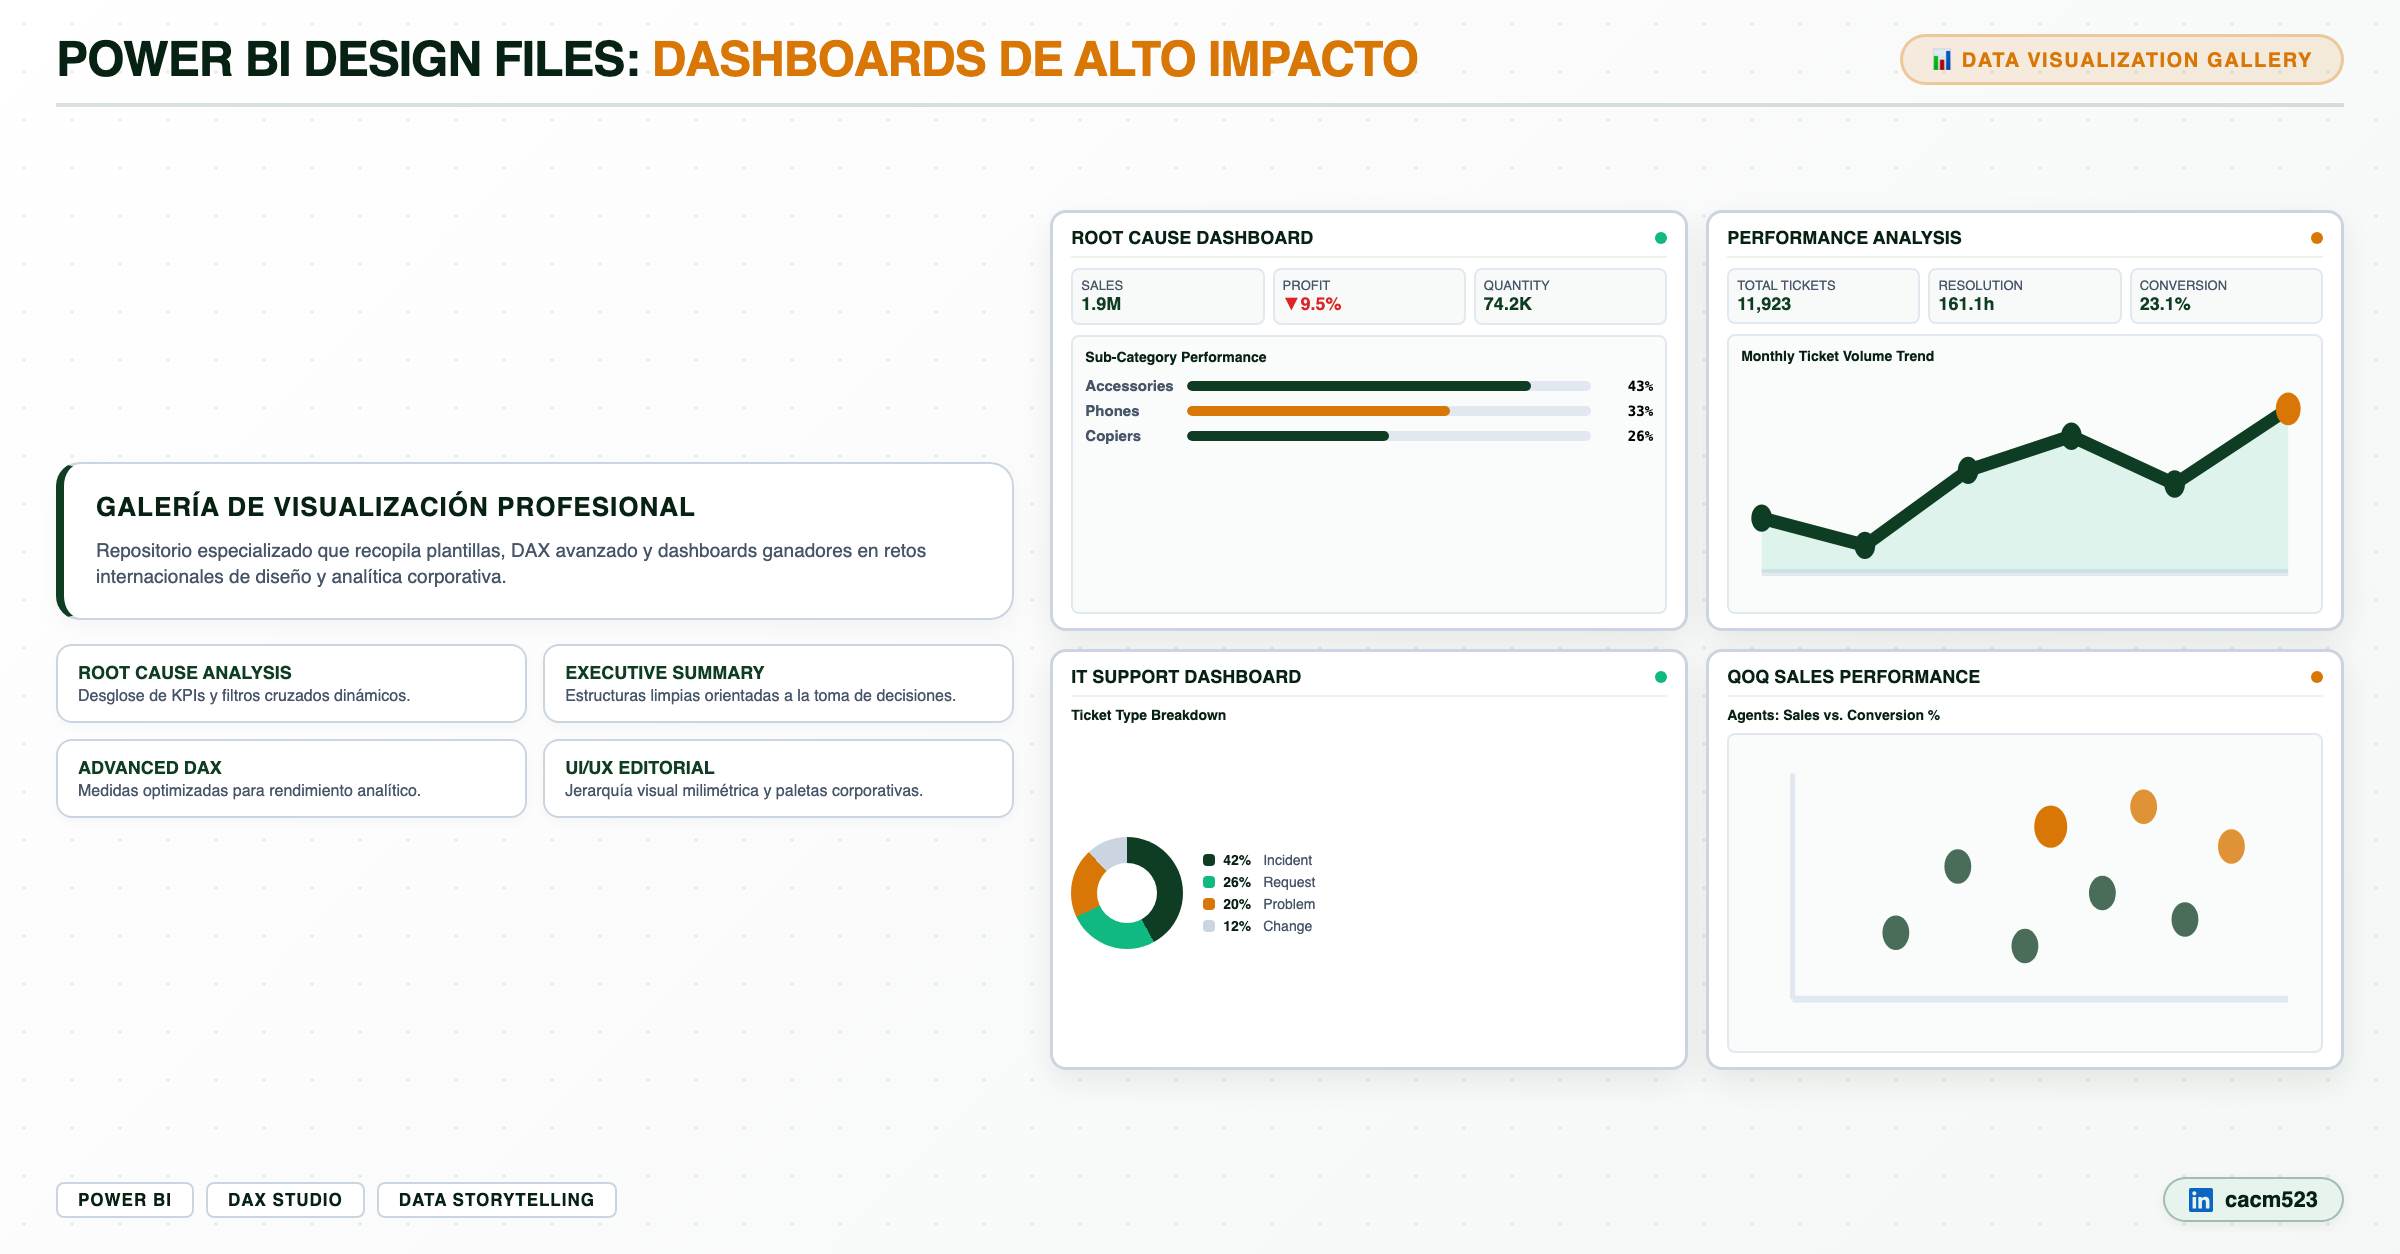
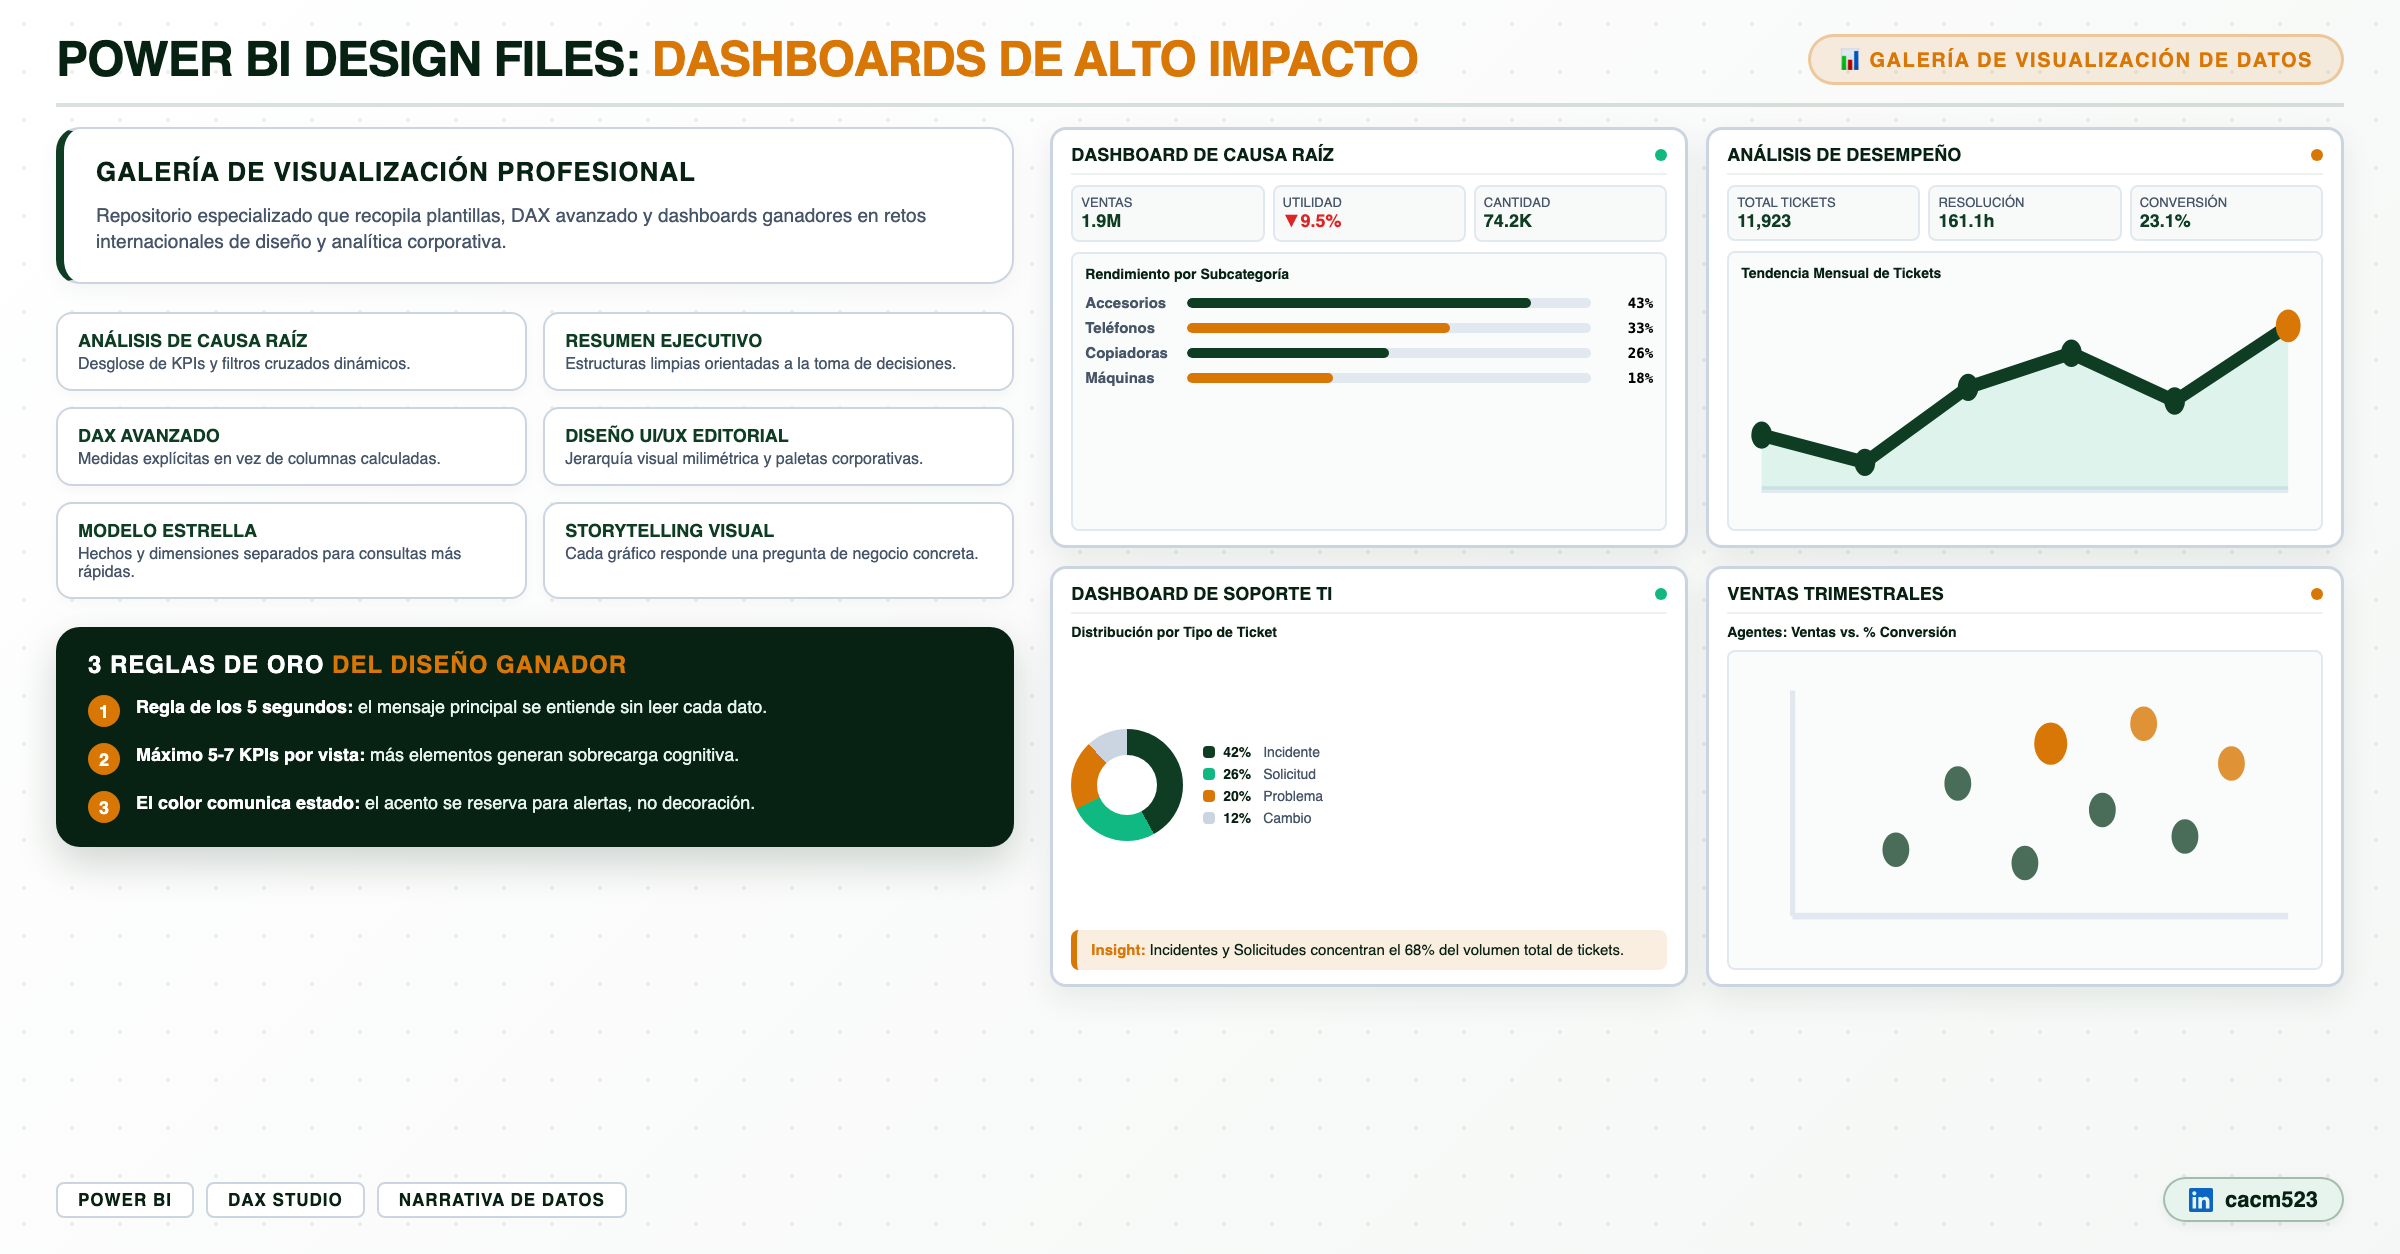
Mejora infografía Power BI Design Files: español completo y más contenido
Traduce al español todas las etiquetas de los mockups de dashboard que
quedaron en inglés (KPIs, títulos, leyendas de la dona, ejes). Rellena
el espacio vacío señalado en la columna izquierda con dos secciones
nuevas de valor real: 2 prácticas adicionales de diseño/DAX (modelo
estrella, storytelling visual) y un panel de "3 Reglas de Oro" del
diseño de dashboards ganadores. Añade una cuarta subcategoría al gráfico
de barras y un insight calculado (68%) a partir de la propia dona en el
dashboard de soporte TI, para eliminar el espacio en blanco de esas
tarjetas sin inventar cifras nuevas.

diff --git a/Construidos/PowerBI/power-bi-design-files-dashboards.html b/Construidos/PowerBI/power-bi-design-files-dashboards.html
@@ -105,14 +105,14 @@
             gap: 18px;
             flex-grow: 1;
             min-height: 0;
-            align-items: center;
+            align-items: stretch;
         }
 
         /* Columna Izquierda: Mensaje y Callouts */
         .left-column {
             display: flex;
             flex-direction: column;
-            gap: 12px;
+            gap: 14px;
         }
 
         .intro-card {
@@ -168,6 +168,59 @@
         .feature-box .f-desc {
             font-size: 8px;
             color: var(--gray-text);
+        }
+
+        /* Panel de reglas de diseño (rellena el espacio inferior de la columna izquierda) */
+        .rules-panel {
+            background: var(--green-dark);
+            border-radius: var(--radius-lg);
+            padding: 12px 16px;
+            display: flex;
+            flex-direction: column;
+            gap: 8px;
+            box-shadow: 0 8px 20px rgba(7, 33, 19, 0.18);
+        }
+
+        .rules-panel h2 {
+            font-size: 12px;
+            font-weight: 800;
+            color: var(--white);
+            text-transform: uppercase;
+            letter-spacing: 0.5px;
+        }
+
+        .rules-panel h2 span {
+            color: var(--earth-accent);
+        }
+
+        .rule-row {
+            display: flex;
+            align-items: flex-start;
+            gap: 8px;
+        }
+
+        .rule-num {
+            flex-shrink: 0;
+            width: 16px;
+            height: 16px;
+            border-radius: 50%;
+            background: var(--earth-accent);
+            color: var(--white);
+            font-size: 9px;
+            font-weight: 800;
+            display: flex;
+            align-items: center;
+            justify-content: center;
+        }
+
+        .rule-text {
+            font-size: 9px;
+            line-height: 1.35;
+            color: var(--green-light);
+        }
+
+        .rule-text b {
+            color: var(--white);
         }
 
         /* Columna Derecha: Mockups UI de Dashboards Power BI (Estilo Referencia) */
@@ -345,6 +398,20 @@
         .donut-legend .leg-dot { width: 6px; height: 6px; border-radius: 2px; flex-shrink: 0; }
         .donut-legend b { color: var(--green-dark); }
 
+        /* Insight derivado (dato calculado a partir de la propia dona, no inventado) */
+        .insight-box {
+            margin-top: auto;
+            background: var(--earth-bg);
+            border-left: 3px solid var(--earth-accent);
+            border-radius: 4px;
+            padding: 5px 7px;
+            font-size: 7.5px;
+            line-height: 1.35;
+            color: var(--green-dark);
+        }
+
+        .insight-box b { color: var(--earth-accent); }
+
         /* Sparkline / trend line (tipo Performance Analysis) */
         .spark-box { flex-grow: 1; display: flex; flex-direction: column; gap: 2px; }
         .spark-box svg { width: 100%; height: 100%; }
@@ -418,7 +485,7 @@
                 <h1>Power BI Design Files: <span>Dashboards de Alto Impacto</span></h1>
             </div>
             <div class="header-badge">
-                📊 Data Visualization Gallery
+                📊 Galería de Visualización de Datos
             </div>
         </header>
 
@@ -434,20 +501,44 @@
 
                 <div class="features-grid">
                     <div class="feature-box">
-                        <span class="f-title">Root Cause Analysis</span>
+                        <span class="f-title">Análisis de Causa Raíz</span>
                         <span class="f-desc">Desglose de KPIs y filtros cruzados dinámicos.</span>
                     </div>
                     <div class="feature-box">
-                        <span class="f-title">Executive Summary</span>
+                        <span class="f-title">Resumen Ejecutivo</span>
                         <span class="f-desc">Estructuras limpias orientadas a la toma de decisiones.</span>
                     </div>
                     <div class="feature-box">
-                        <span class="f-title">Advanced DAX</span>
-                        <span class="f-desc">Medidas optimizadas para rendimiento analítico.</span>
+                        <span class="f-title">DAX Avanzado</span>
+                        <span class="f-desc">Medidas explícitas en vez de columnas calculadas.</span>
                     </div>
                     <div class="feature-box">
-                        <span class="f-title">UI/UX Editorial</span>
+                        <span class="f-title">Diseño UI/UX Editorial</span>
                         <span class="f-desc">Jerarquía visual milimétrica y paletas corporativas.</span>
+                    </div>
+                    <div class="feature-box">
+                        <span class="f-title">Modelo Estrella</span>
+                        <span class="f-desc">Hechos y dimensiones separados para consultas más rápidas.</span>
+                    </div>
+                    <div class="feature-box">
+                        <span class="f-title">Storytelling Visual</span>
+                        <span class="f-desc">Cada gráfico responde una pregunta de negocio concreta.</span>
+                    </div>
+                </div>
+
+                <div class="rules-panel">
+                    <h2>3 Reglas de Oro <span>del Diseño Ganador</span></h2>
+                    <div class="rule-row">
+                        <span class="rule-num">1</span>
+                        <span class="rule-text"><b>Regla de los 5 segundos:</b> el mensaje principal se entiende sin leer cada dato.</span>
+                    </div>
+                    <div class="rule-row">
+                        <span class="rule-num">2</span>
+                        <span class="rule-text"><b>Máximo 5-7 KPIs por vista:</b> más elementos generan sobrecarga cognitiva.</span>
+                    </div>
+                    <div class="rule-row">
+                        <span class="rule-num">3</span>
+                        <span class="rule-text"><b>El color comunica estado:</b> el acento se reserva para alertas, no decoración.</span>
                     </div>
                 </div>
             </div>
@@ -455,50 +546,55 @@
             <!-- DERECHA: MOCKUPS UI DE POWER BI SIMULADOS EXACTOS -->
             <div class="right-column">
                 
-                <!-- Mockup 1: Root Cause Dashboard (barras) -->
+                <!-- Mockup 1: Dashboard de Causa Raíz (barras) -->
                 <div class="dashboard-mockup">
                     <div class="mockup-header">
-                        <span class="mockup-title">Root Cause Dashboard</span>
+                        <span class="mockup-title">Dashboard de Causa Raíz</span>
                         <div class="mockup-dot"></div>
                     </div>
                     <div class="kpi-row">
                         <div class="kpi-card">
-                            <span class="kpi-label">Sales</span>
+                            <span class="kpi-label">Ventas</span>
                             <span class="kpi-val">1.9M</span>
                         </div>
                         <div class="kpi-card">
-                            <span class="kpi-label">Profit</span>
+                            <span class="kpi-label">Utilidad</span>
                             <span class="kpi-val negative">▼9.5%</span>
                         </div>
                         <div class="kpi-card">
-                            <span class="kpi-label">Quantity</span>
+                            <span class="kpi-label">Cantidad</span>
                             <span class="kpi-val">74.2K</span>
                         </div>
                     </div>
                     <div class="chart-sim">
-                        <div style="font-size: 7px; font-weight: 700; color: var(--green-dark); margin-bottom: 2px;">Sub-Category Performance</div>
+                        <div style="font-size: 7px; font-weight: 700; color: var(--green-dark); margin-bottom: 2px;">Rendimiento por Subcategoría</div>
                         <div class="bar-chart-row">
-                            <span class="bar-label">Accessories</span>
+                            <span class="bar-label">Accesorios</span>
                             <div class="bar-track"><div class="bar-fill" style="width: 85%;"></div></div>
                             <span class="bar-val">43%</span>
                         </div>
                         <div class="bar-chart-row">
-                            <span class="bar-label">Phones</span>
+                            <span class="bar-label">Teléfonos</span>
                             <div class="bar-track"><div class="bar-fill earth" style="width: 65%;"></div></div>
                             <span class="bar-val">33%</span>
                         </div>
                         <div class="bar-chart-row">
-                            <span class="bar-label">Copiers</span>
+                            <span class="bar-label">Copiadoras</span>
                             <div class="bar-track"><div class="bar-fill" style="width: 50%;"></div></div>
                             <span class="bar-val">26%</span>
+                        </div>
+                        <div class="bar-chart-row">
+                            <span class="bar-label">Máquinas</span>
+                            <div class="bar-track"><div class="bar-fill earth" style="width: 36%;"></div></div>
+                            <span class="bar-val">18%</span>
                         </div>
                     </div>
                 </div>
 
-                <!-- Mockup 2: Performance Analysis (línea de tendencia) -->
+                <!-- Mockup 2: Análisis de Desempeño (línea de tendencia) -->
                 <div class="dashboard-mockup">
                     <div class="mockup-header">
-                        <span class="mockup-title">Performance Analysis</span>
+                        <span class="mockup-title">Análisis de Desempeño</span>
                         <div class="mockup-dot" style="background: var(--earth-accent);"></div>
                     </div>
                     <div class="kpi-row">
@@ -507,16 +603,16 @@
                             <span class="kpi-val">11,923</span>
                         </div>
                         <div class="kpi-card">
-                            <span class="kpi-label">Resolution</span>
+                            <span class="kpi-label">Resolución</span>
                             <span class="kpi-val">161.1h</span>
                         </div>
                         <div class="kpi-card">
-                            <span class="kpi-label">Conversion</span>
+                            <span class="kpi-label">Conversión</span>
                             <span class="kpi-val">23.1%</span>
                         </div>
                     </div>
                     <div class="chart-sim spark-box">
-                        <div style="font-size: 7px; font-weight: 700; color: var(--green-dark);">Monthly Ticket Volume Trend</div>
+                        <div style="font-size: 7px; font-weight: 700; color: var(--green-dark);">Tendencia Mensual de Tickets</div>
                         <svg viewBox="0 0 110 34" preserveAspectRatio="none">
                             <polyline points="4,26 4,30 106,30 106,26" fill="none" stroke="none"/>
                             <line x1="4" y1="30" x2="106" y2="30" stroke="#e2e8f0" stroke-width="1"/>
@@ -532,31 +628,32 @@
                     </div>
                 </div>
 
-                <!-- Mockup 3: IT Support Ticket Breakdown (dona) -->
+                <!-- Mockup 3: Distribución de Tickets de Soporte TI (dona) -->
                 <div class="dashboard-mockup">
                     <div class="mockup-header">
-                        <span class="mockup-title">IT Support Dashboard</span>
+                        <span class="mockup-title">Dashboard de Soporte TI</span>
                         <div class="mockup-dot"></div>
                     </div>
-                    <div style="font-size: 7px; font-weight: 700; color: var(--green-dark);">Ticket Type Breakdown</div>
+                    <div style="font-size: 7px; font-weight: 700; color: var(--green-dark);">Distribución por Tipo de Ticket</div>
                     <div class="donut-row">
                         <div class="donut-shape"></div>
                         <div class="donut-legend">
-                            <div class="leg-row"><span class="leg-dot" style="background:var(--green-primary);"></span><b>42%</b>&nbsp;Incident</div>
-                            <div class="leg-row"><span class="leg-dot" style="background:var(--green-glow);"></span><b>26%</b>&nbsp;Request</div>
-                            <div class="leg-row"><span class="leg-dot" style="background:var(--earth-accent);"></span><b>20%</b>&nbsp;Problem</div>
-                            <div class="leg-row"><span class="leg-dot" style="background:#cbd5e1;"></span><b>12%</b>&nbsp;Change</div>
+                            <div class="leg-row"><span class="leg-dot" style="background:var(--green-primary);"></span><b>42%</b>&nbsp;Incidente</div>
+                            <div class="leg-row"><span class="leg-dot" style="background:var(--green-glow);"></span><b>26%</b>&nbsp;Solicitud</div>
+                            <div class="leg-row"><span class="leg-dot" style="background:var(--earth-accent);"></span><b>20%</b>&nbsp;Problema</div>
+                            <div class="leg-row"><span class="leg-dot" style="background:#cbd5e1;"></span><b>12%</b>&nbsp;Cambio</div>
                         </div>
                     </div>
+                    <div class="insight-box"><b>Insight:</b> Incidentes y Solicitudes concentran el 68% del volumen total de tickets.</div>
                 </div>
 
-                <!-- Mockup 4: QoQ Sales & Conversion (dispersión) -->
+                <!-- Mockup 4: Ventas Trimestrales y Conversión (dispersión) -->
                 <div class="dashboard-mockup">
                     <div class="mockup-header">
-                        <span class="mockup-title">QoQ Sales Performance</span>
+                        <span class="mockup-title">Ventas Trimestrales</span>
                         <div class="mockup-dot" style="background: var(--earth-accent);"></div>
                     </div>
-                    <div style="font-size: 7px; font-weight: 700; color: var(--green-dark);">Agents: Sales vs. Conversion %</div>
+                    <div style="font-size: 7px; font-weight: 700; color: var(--green-dark);">Agentes: Ventas vs. % Conversión</div>
                     <div class="chart-sim scatter-box">
                         <svg viewBox="0 0 110 44" preserveAspectRatio="none">
                             <line x1="10" y1="4" x2="10" y2="38" stroke="#e2e8f0" stroke-width="1"/>
@@ -582,7 +679,7 @@
             <div class="tech-tags">
                 <span class="tech-pill">Power BI</span>
                 <span class="tech-pill">DAX Studio</span>
-                <span class="tech-pill">Data Storytelling</span>
+                <span class="tech-pill">Narrativa de Datos</span>
             </div>
             <div class="signature">
                 <svg class="linkedin-icon" viewBox="0 0 24 24" xmlns="http://www.w3.org/2000/svg">
